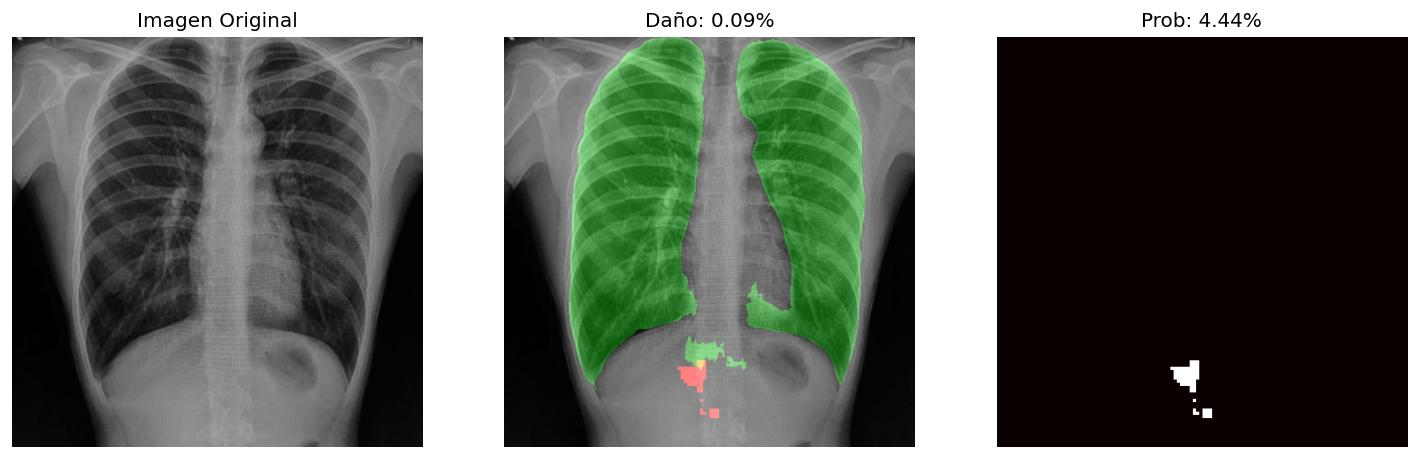
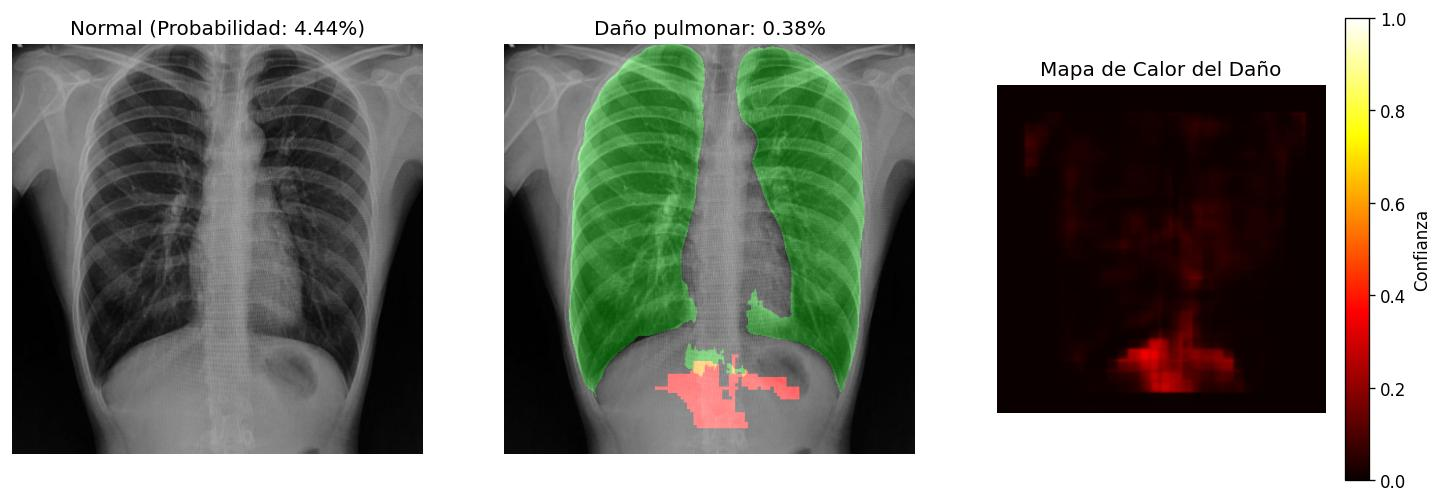
ultima actuaalizacion

diff --git a/app.py b/app.py
@@ -1,0 +1,107 @@
+from flask import Flask, request, jsonify
+from flask_cors import CORS
+import base64
+import numpy as np
+import cv2
+import io
+from PIL import Image
+import tensorflow as tf
+from tensorflow.keras.models import load_model
+from tensorflow.keras.utils import register_keras_serializable
+from utils import preprocess_for_model, dice_coefficient
+import traceback
+
+app = Flask(__name__)
+CORS(app)  # Permitir CORS para Flutter
+
+# Cargar modelos una vez al iniciar
+models = {
+    'pneumonia': load_model('model/best_pneumonia.keras'),
+    'lung': load_model('model/best_pulmonar.keras', custom_objects={'dice_coefficient': dice_coefficient}),
+    'damage': load_model('model/best_daño.keras')
+}
+
+IMG_SIZES = {
+    'clf_size': (224, 224),
+    'seg_size': (512, 512),
+    'damage_size': (128, 128)
+}
+
+def decode_base64_image(img_base64):
+    img_bytes = base64.b64decode(img_base64)
+    img = Image.open(io.BytesIO(img_bytes)).convert('L')  # Grayscale
+    img_np = np.array(img)
+    return img_np
+
+@app.route('/predict', methods=['POST'])
+def predict():
+    data = request.get_json()
+
+    img_base64 = data.get('imagen')
+    edad = data.get('edad')
+    sexo = data.get('sexo')
+
+    if img_base64 is None or edad is None or sexo is None:
+        return jsonify({'error': 'Faltan datos'}), 400
+
+    try:
+        # Decodificar imagen base64 a numpy array grayscale
+        original_img = decode_base64_image(img_base64)
+
+        # Preprocesar imagen para clasificación, segmentación y daño
+        clf_img = preprocess_for_model(original_img, IMG_SIZES['clf_size'])
+        seg_img = preprocess_for_model(original_img, IMG_SIZES['seg_size'])
+        damage_img = preprocess_for_model(original_img, IMG_SIZES['damage_size'])
+
+        # Expandir dimensiones para batch
+        clf_input = np.expand_dims(clf_img, axis=0)  # (1, 224, 224, 1)
+        seg_input = np.expand_dims(seg_img, axis=0)  # (1, 512, 512, 1)
+        damage_input = np.expand_dims(damage_img, axis=0)  # (1, 128, 128, 1)
+
+        # Conversión segura de edad y sexo
+        try:
+            edad = float(edad)  # aseguramos tipo numérico
+            sexo = sexo.lower().strip()
+            if sexo == 'masculino':
+                sexo_bin = 1
+            elif sexo == 'femenino':
+                sexo_bin = 0
+            else:
+                return jsonify({'error': 'Sexo inválido: usa Masculino o Femenino'}), 400
+        except Exception as e:
+            return jsonify({'error': f'Dato inválido: {str(e)}'}), 400
+
+        # Tabular input para edad y sexo (ambos como float)
+        tabular_data = np.array([[edad, sexo_bin]], dtype=np.float32)
+
+
+        # Predicción neumonía
+        pneumonia_prob = models['pneumonia'].predict([clf_input, tabular_data])[0][0]
+        diagnosis = "NEUMONÍA" if pneumonia_prob > 0.5 else "Normal"
+
+        # Segmentación pulmonar
+        lung_pred = models['lung'].predict(seg_input)[0, ..., 0]
+        lung_mask = (lung_pred > 0.5).astype(np.uint8)
+
+        # Detección de daño pulmonar
+        pred_damage = models['damage'].predict(damage_input)[0]
+        pred_mask = (pred_damage > 0.15).astype(np.uint8)
+        damage_mask = cv2.resize(pred_mask.squeeze(), IMG_SIZES['seg_size'], interpolation=cv2.INTER_NEAREST)
+
+        # Cálculo porcentaje daño pulmonar
+        damage_perc = (np.sum(lung_mask * damage_mask) / np.sum(lung_mask)) * 100 if np.sum(lung_mask) > 0 else 0.0
+
+        # Retornar resultados
+        return jsonify({
+            'diagnostico': diagnosis,
+            'probabilidad': float(pneumonia_prob),
+            'daño_pulmonar': float(damage_perc)
+        })
+
+    except Exception as e:
+        print("ERROR EN PREDICCIÓN:", e)
+        traceback.print_exc()
+        return jsonify({'error': str(e)}), 500
+
+if __name__ == '__main__':
+    app.run(debug=True, port=5000)

diff --git a/src/predict.py b/src/predict.py
@@ -9,7 +9,7 @@ import matplotlib.pyplot as plt
 
 # ========== CONFIGURACIÓN ==========
 INPUT_CONFIG = {
-    'image_path': "dataset/Test/neumoniasevera.png",  # Ruta de la imagen
+    'image_path': "dataset/Test/torax sano.jpg",  # Ruta de la imagen
     'age': 45,                                 # Edad del paciente
     'sex': 1,                                  # 0: Femenino, 1: Masculino
     'output_dir': 'results',                   # Carpeta para guardar resultados
@@ -121,7 +121,7 @@ def main():
         
         # Predecir (genera máscara binaria)
         pred = models['damage'].predict(damage_input)[0]
-        pred_mask = (pred > 0.1).astype(np.uint8)  # Usa el mismo umbral que en tu prueba
+        pred_mask = (pred > 0.15).astype(np.uint8)  # Usa el mismo umbral que en tu prueba
         
         # Redimensionar a 512x512 para que coincida con lung_mask
         damage_mask = cv2.resize(pred_mask.squeeze(), INPUT_CONFIG['img_size'], interpolation=cv2.INTER_NEAREST)

diff --git a/utils.py b/utils.py
@@ -1,0 +1,23 @@
+import cv2
+import numpy as np
+from tensorflow.keras.utils import register_keras_serializable
+from tensorflow.keras import backend as K
+
+@register_keras_serializable()
+def dice_coefficient(y_true, y_pred):
+    y_true = K.round(y_true)
+    y_pred = K.round(y_pred)
+    intersection = K.sum(y_true * y_pred)
+    return (2. * intersection + K.epsilon()) / (K.sum(y_true) + K.sum(y_pred) + K.epsilon())
+@register_keras_serializable()
+def jaccard_index(y_true, y_pred):
+    y_true = K.round(y_true)
+    y_pred = K.round(y_pred)
+    intersection = K.sum(y_true * y_pred)
+    union = K.sum(y_true) + K.sum(y_pred) - intersection
+    return intersection / (union + K.epsilon())
+
+def preprocess_for_model(image, target_size):
+    img = cv2.resize(image, target_size)
+    img = img.astype(np.float32) / 255.0
+    return np.expand_dims(img, axis=-1)
